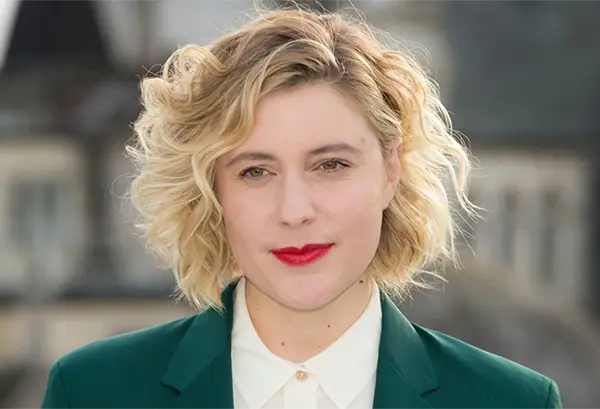
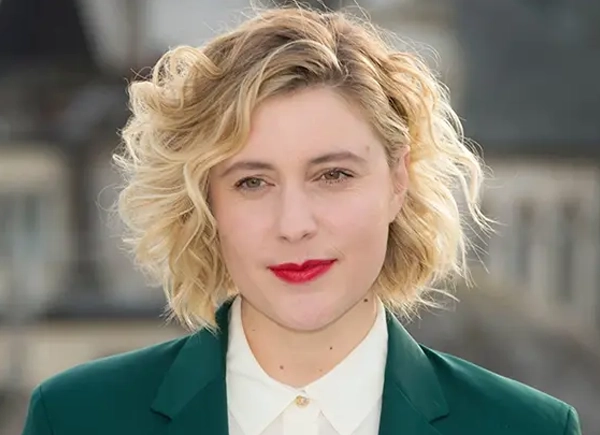
이미지 사이즈 수정, Answer 페이지에서 부정어 밑줄 기능

diff --git a/app/cinephile/Answer.tsx b/app/cinephile/Answer.tsx
@@ -1,40 +1,64 @@
-import React from "react";
+import React, { useState } from "react";
 import styles from "./cine.module.css";
-import { data } from "./data";
+import { data, negativeWord } from "./data";
 import Image from "next/image";
 
 export default function Answer() {
+  // const isNegative = data.some(item => negativeWord.some(word => item.question.includes(word)));
+
   return (
     <div>
       <div className={styles["question"]}>
-        {data.map((x, dataIndex) => {
+        {data.map((item, dataIndex) => {
+          const hasNegativeWord = item.question
+            .split(" ")
+            .some(element => negativeWord.includes(element));
+
           return (
             <div
               className={`${styles["question-container"]} ${styles["commentary-container"]}`}
               key={dataIndex}
             >
-              <div className={styles["question"]}>{`${dataIndex + 1}. ${x.question}`}</div>
-              {x.type === "multiple-choice" ? (
+              <div className={styles["question"]}>
+                {`${[dataIndex + 1]}. `}
+                {hasNegativeWord
+                  ? negativeWord.map((word, index) => {
+                      if (item.question.includes(word)) {
+                        const text = item.question.split(word);
+                        return (
+                          <React.Fragment key={index}>
+                            <span>{text[0]}</span>
+                            <span style={{ textDecoration: "underline" }}>{word}</span>
+                            <span>{text[1]}</span>
+                          </React.Fragment>
+                        );
+                      } else {
+                        return null;
+                      }
+                    })
+                  : item.question}
+              </div>
+              {item.type === "multiple-choice" ? (
                 <React.Fragment>
-                  {x.type2 === "image" ? (
+                  {item.type2 === "image" ? (
                     <React.Fragment>
                       <div className={styles["image-container"]}>
                         <Image
                           className={styles["image"]}
-                          src={`/cinephile/${x.title}.webp`}
-                          alt={`${x.title}`}
-                          width={window.innerWidth > 450 ? "280" : "180"}
-                          height={window.innerWidth > 450 ? "190" : "120"}
+                          src={`/cinephile/${item.title}.webp`}
+                          alt={`${item.title}`}
+                          width={window.innerWidth > 450 ? "300" : "240"}
+                          height={window.innerWidth > 450 ? "220" : "175"}
                         />
                       </div>
                     </React.Fragment>
-                  ) : x.title === "chungking-express" ? (
+                  ) : item.title === "chungking-express" ? (
                     <React.Fragment>
                       <div className={styles["chungking-express"]}>📞 🍍 🕒 😎</div>
                       <div className={styles["chungking-express"]}>👮♂ 💌 🔑 🛫</div>
                     </React.Fragment>
                   ) : null}
-                  {x.options?.map((option, index) => {
+                  {item.options?.map((option, index) => {
                     return (
                       <div
                         key={index}
@@ -62,19 +86,19 @@ export default function Answer() {
                     );
                   })}
                 </React.Fragment>
-              ) : x.type === "short-answer" ? (
+              ) : item.type === "short-answer" ? (
                 <div className={styles["short-answer-container"]}>
-                  {x.paragraph?.split(String(x.answer)).map((text, index) => {
+                  {item.paragraph?.split(String(item.answer)).map((text, index) => {
                     return index === 0 ? (
                       <React.Fragment key={index}>{text}</React.Fragment>
                     ) : (
                       <React.Fragment key={index}>
-                        <span className={styles["options-selected"]}>{x.answer}</span>
+                        <span className={styles["options-selected"]}>{item.answer}</span>
                         {text}
                       </React.Fragment>
                     );
                   })}
-                  {x.reference ? (
+                  {item.reference ? (
                     <a href={data[dataIndex].reference} target="_blank">
                       <div className={styles["reference"]}>
                         <span className={styles["options-selected"]}>관련 자료</span>

diff --git a/app/cinephile/Question.tsx b/app/cinephile/Question.tsx
@@ -1,6 +1,6 @@
 import { useEffect, useState } from "react";
 import styles from "./cine.module.css";
-import { data } from "./data";
+import { data, negativeWord } from "./data";
 import React from "react";
 import Image from "next/image";
 
@@ -11,15 +11,12 @@ interface QuestionProps {
 }
 
 export function Question({ page, userAnswer, setUserAnswer }: QuestionProps) {
-  const negativeWord: string[] = ["아닌", "않은", "않는"];
-  const [isNagative, setIsNagative] = useState<boolean>(false);
+  const [hasNegativeWord, setHasNegativeWord] = useState<boolean>(false);
 
   useEffect(() => {
-    setIsNagative(false);
-
-    negativeWord.map(word => {
-      if (data[page - 1].question.includes(word)) setIsNagative(true);
-    });
+    data[page - 1].question.split(" ").some(element => negativeWord.includes(element))
+      ? setHasNegativeWord(true)
+      : setHasNegativeWord(false);
   }, [page]);
 
   const Options = () => {
@@ -47,7 +44,7 @@ export function Question({ page, userAnswer, setUserAnswer }: QuestionProps) {
     <div className={styles["question-container"]}>
       <div className={styles["question"]}>
         {`${[page]}. `}
-        {isNagative
+        {hasNegativeWord
           ? negativeWord.map((word, index) => {
               if (data[page - 1].question.includes(word)) {
                 const text = data[page - 1].question.split(word);
@@ -72,8 +69,8 @@ export function Question({ page, userAnswer, setUserAnswer }: QuestionProps) {
                 className={styles["image"]}
                 src={`/cinephile/${data[page - 1].title}.webp`}
                 alt={`${data[page - 1].title}`}
-                width={window.innerWidth > 450 ? "280" : "180"}
-                height={window.innerWidth > 450 ? "190" : "120"}
+                width={window.innerWidth > 450 ? "420" : "240"}
+                height={window.innerWidth > 450 ? "290" : "160"}
               />
             </div>
             <Options />

diff --git a/app/cinephile/page.tsx b/app/cinephile/page.tsx
@@ -21,6 +21,7 @@ export default function Page() {
   const [totalScore, setTotalScore] = useState<number>(0);
   const [testPage, setTestPage] = useState<number>(1);
   const testPageMax = data.length;
+  // const testPageMax = 5;
   const progressWidth = `${(testPage / testPageMax) * 100}%`;
   const progressPercent = `${Math.floor((testPage / testPageMax) * 100)}%`;
   const [userAnswer, setUserAnswer] = useState<any>();

diff --git a/app/cinephile/data.ts b/app/cinephile/data.ts
@@ -245,3 +245,5 @@ export const data = [
     reference: "https://www.mk.co.kr/news/culture/8781694",
   },
 ];
+
+export const negativeWord: string[] = ["아닌", "않은", "않는"];
